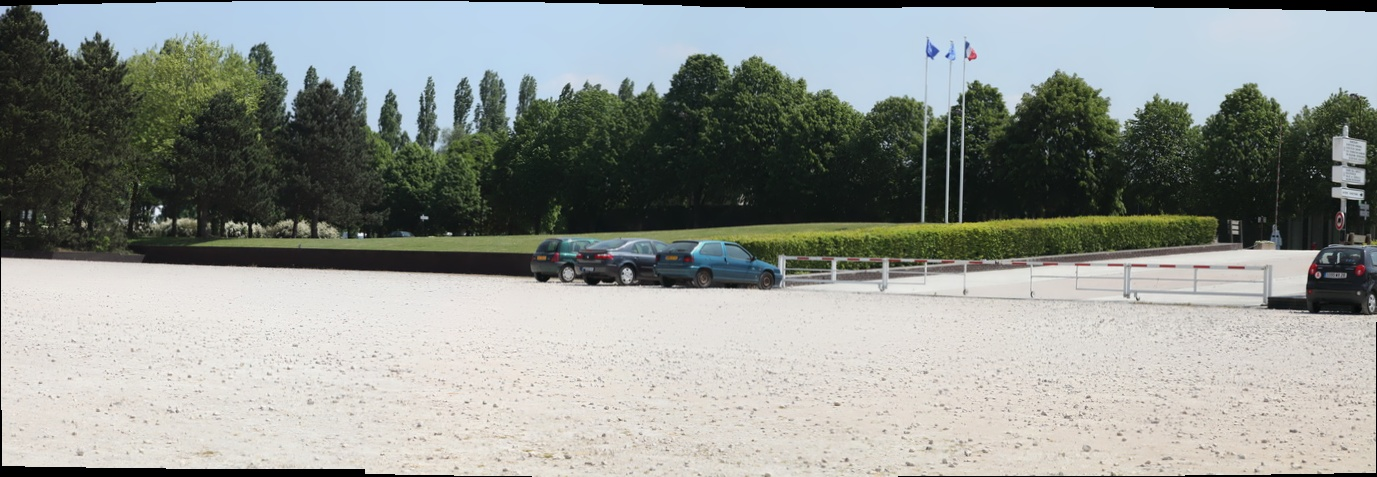
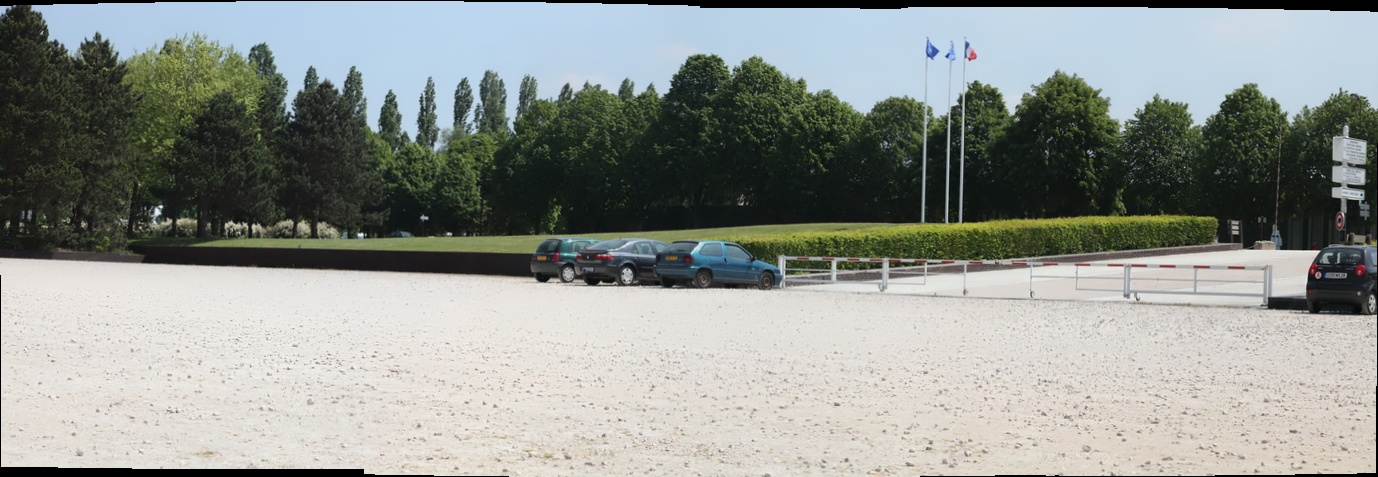
preprocess works at same time as panorama now

diff --git a/image.cpp b/image.cpp
@@ -501,22 +501,12 @@ Mat getPano() {
     int panoStart = 26; // Actual start is 26
     int panoEnd = 60; // Actual end is 60
 
-    // preprocess();
+    preprocess();
 
-    // For some reason, the preprocessing and the stitching of the 
-    // preprocessed images can't be run at the same time.
-    // So first, comment everything in the PART2 section and run
-    // the homographie file, then uncomment it, and comment the 
-    // call to the preprocess().
-
-    // PART 2
     for (int i = panoStart; i <= panoEnd - 6; i+=3) {
         Mat img = imread("stitched/STITCHED_00" + to_string(i) + ".JPG");
         imgs.push_back(img);
     }
-
-    // imshow("lastImg", imgs.at(imgs.size()-1));
-    // waitKey();
 
     Mat pano;
     Ptr<Stitcher> stitcher = Stitcher::create(mode, false);
@@ -524,9 +514,6 @@ Mat getPano() {
     if (status != Stitcher::OK)
         cout << "Couldn't stitch images\n";
     imwrite("results/panorama.JPG", pano);
-    // imshow("Pano", pano);
-    // waitKey();
-    // END PART 2
 
     return pano;
 }
